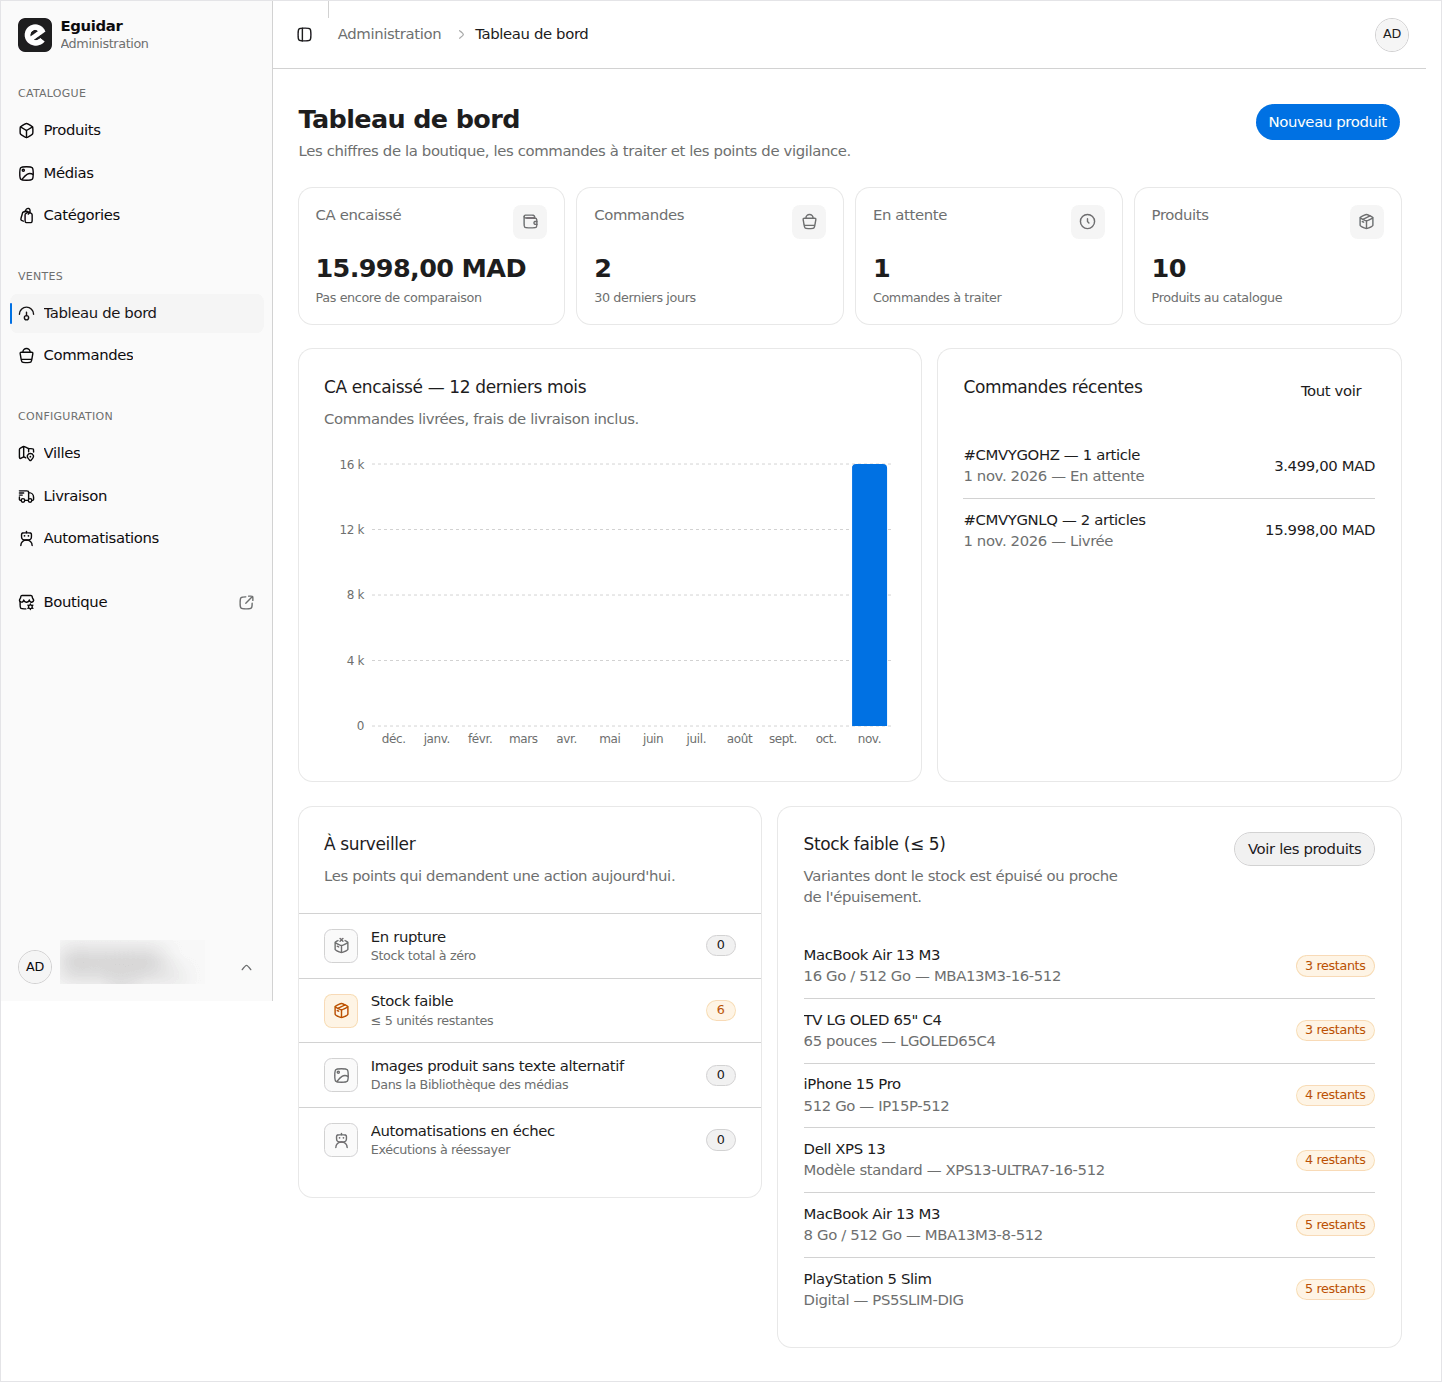
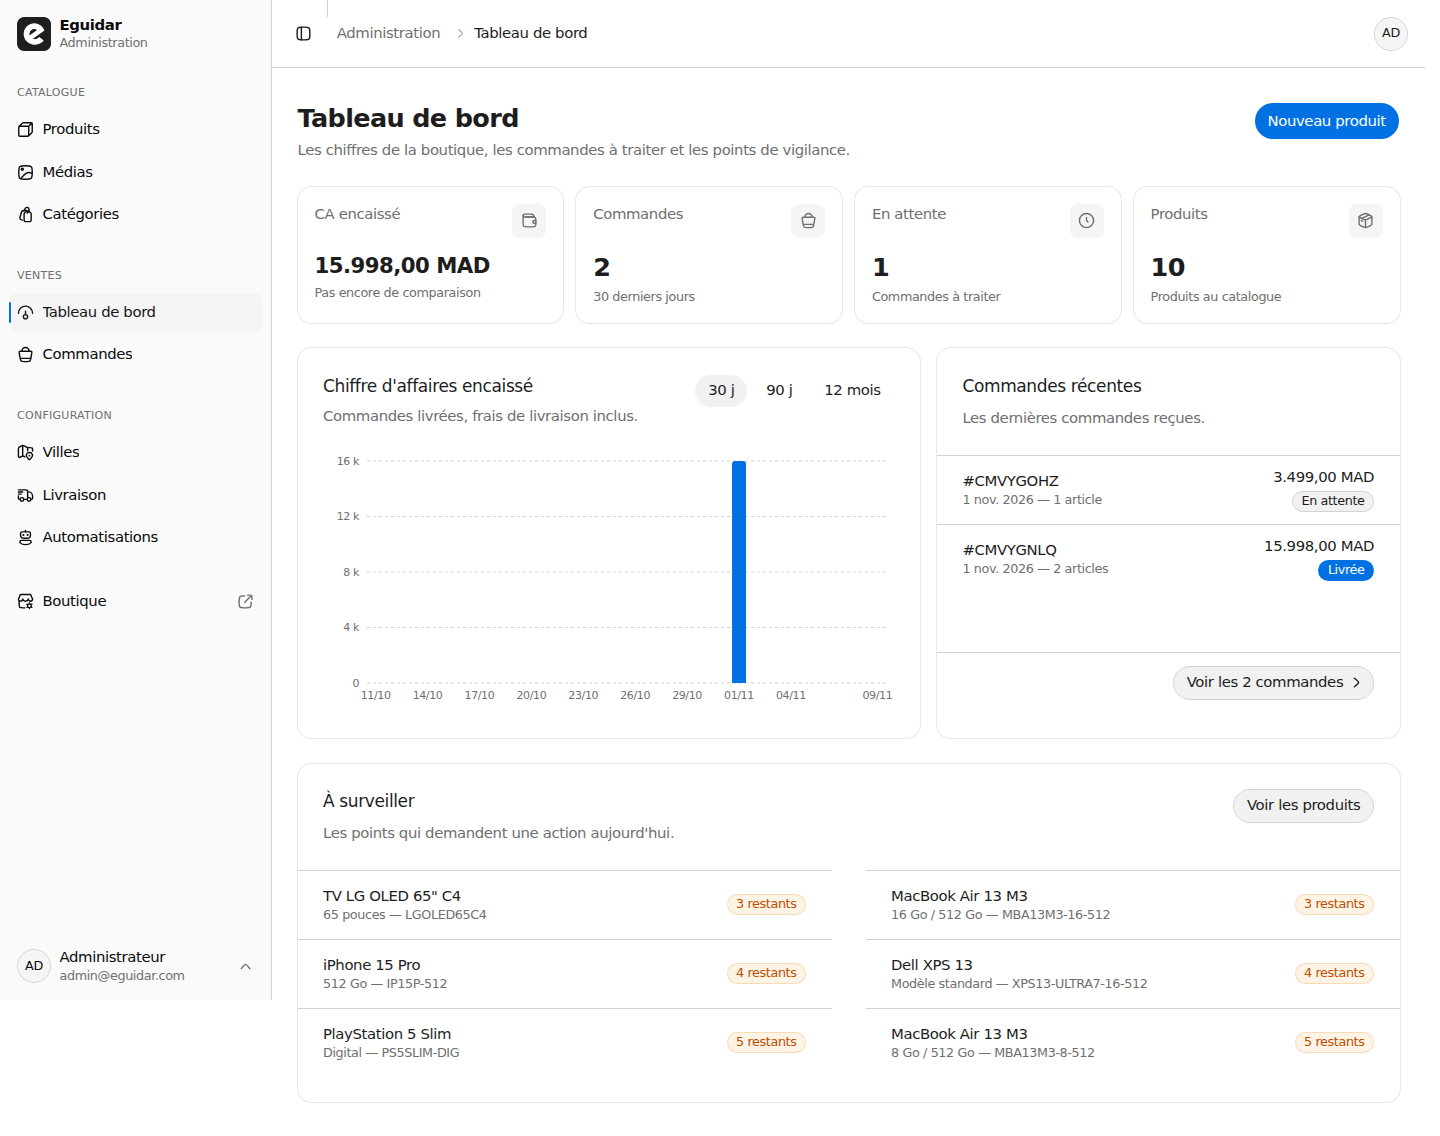
Evidence/965 tableau de bord (#970)
* Les captures du Tableau de bord à 390, 768 et 1440 (#965)

* La vitrine du dépôt montre le Tableau de bord recomposé (#965)

---------

diff --git a/README.md b/README.md
@@ -58,7 +58,7 @@ Le parcours va du catalogue à la confirmation de commande, sans paiement en lig
   <tr>
     <td width="50%" align="center" valign="top">
       <a href="docs/screenshots/admin-tableau-de-bord.png"><img src="docs/screenshots/admin-tableau-de-bord.png" alt="Tableau de bord de l'Administration" width="100%"></a><br>
-      <sub><b>Tableau de bord</b> — chiffre d'affaires encaissé, commandes à traiter, stock faible.</sub>
+      <sub><b>Tableau de bord</b> — chiffre d'affaires encaissé sur une période, commandes récentes et alertes.</sub>
     </td>
     <td width="50%" align="center" valign="top">
       <a href="docs/screenshots/admin-produits.png"><img src="docs/screenshots/admin-produits.png" alt="Liste des produits" width="100%"></a><br>
